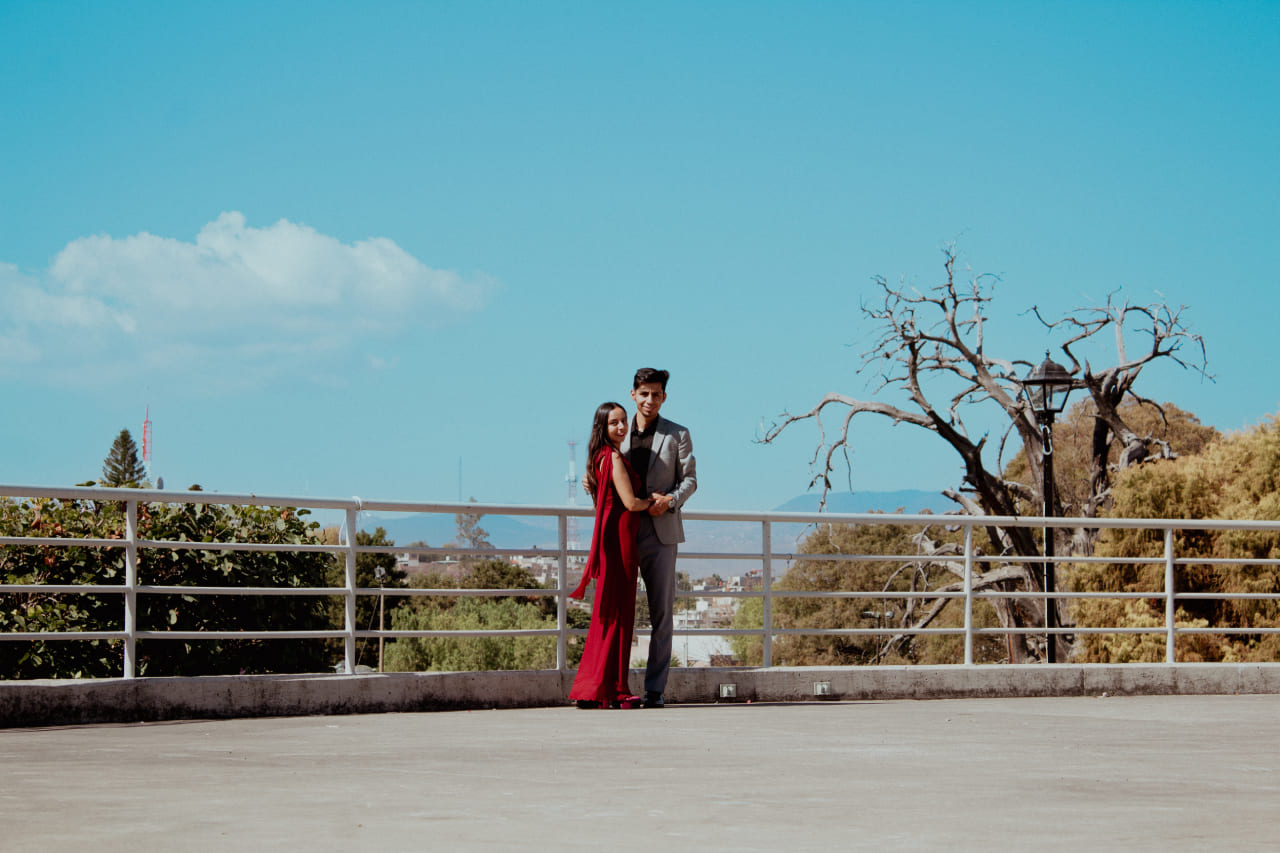
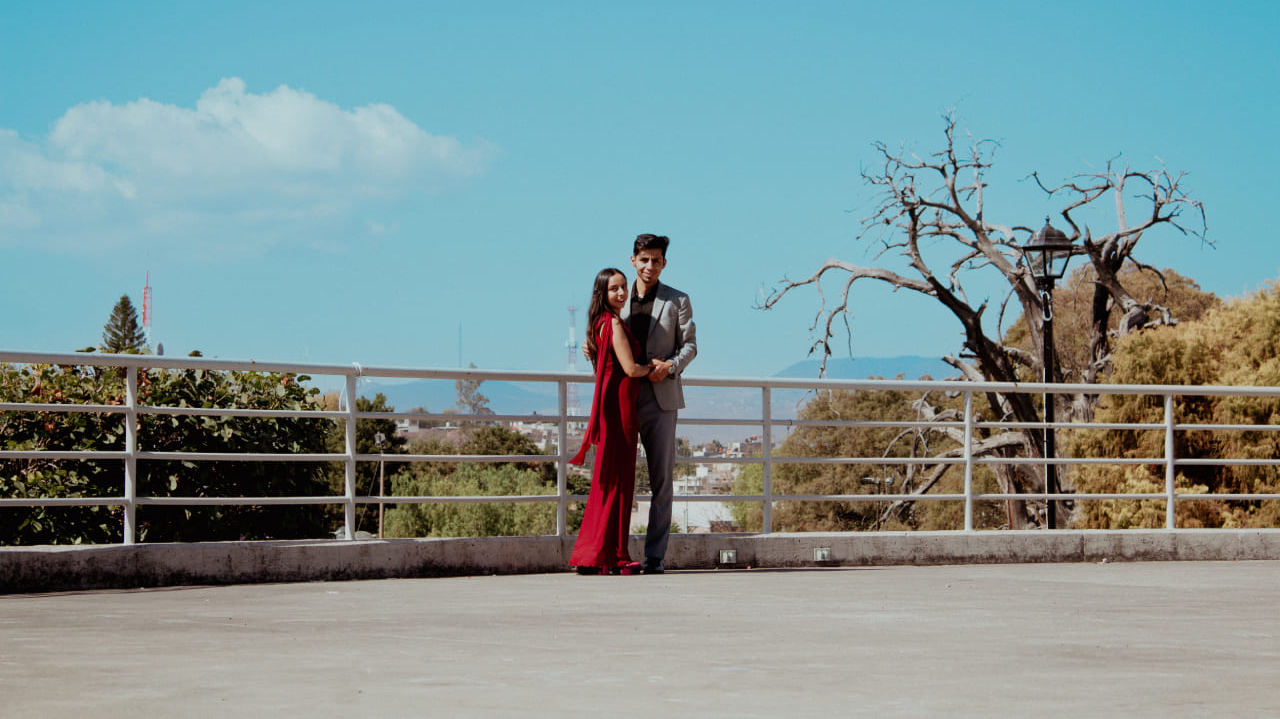
Deploy

diff --git a/css/styles.css b/css/styles.css
@@ -331,7 +331,7 @@ body {
     position: relative;
     padding-top: 8rem;
     padding-bottom: 8rem;
-    
+
     &::after,
     &::before {
         content: "";
@@ -511,7 +511,10 @@ body {
     /* background-color: var(--color-primary); */
     background-color: var(--color-primary-hover);
     min-height: 100dvh;
-
+    display: flex;
+    flex-direction: column;
+    align-items: center;
+    justify-content: center;
     h2 {
         /* font-size: 3.250rem; */
         font-size: 2.5rem;
@@ -551,7 +554,10 @@ body {
     /* background-color: var(--color-background-light); */
     background-color: var(--color-primary-hover);
     min-height: 100dvh;
-
+    display: flex;
+    flex-direction: column;
+    align-items: center;
+    justify-content: center;
     h2 {
         /* color: var(--color-text-dark-1); */
         color: #FFF;

diff --git a/index.html b/index.html
@@ -156,7 +156,7 @@
                 <div>
                     <h2>Nuestros <span>Padrinos</span></h2>
                     <div class="content-icon-section">
-                        <img src="img/paloma-3.png" alt="">
+                        <img src="img/paloma-4.png" alt="">
                     </div>
                 </div>
             </div>
